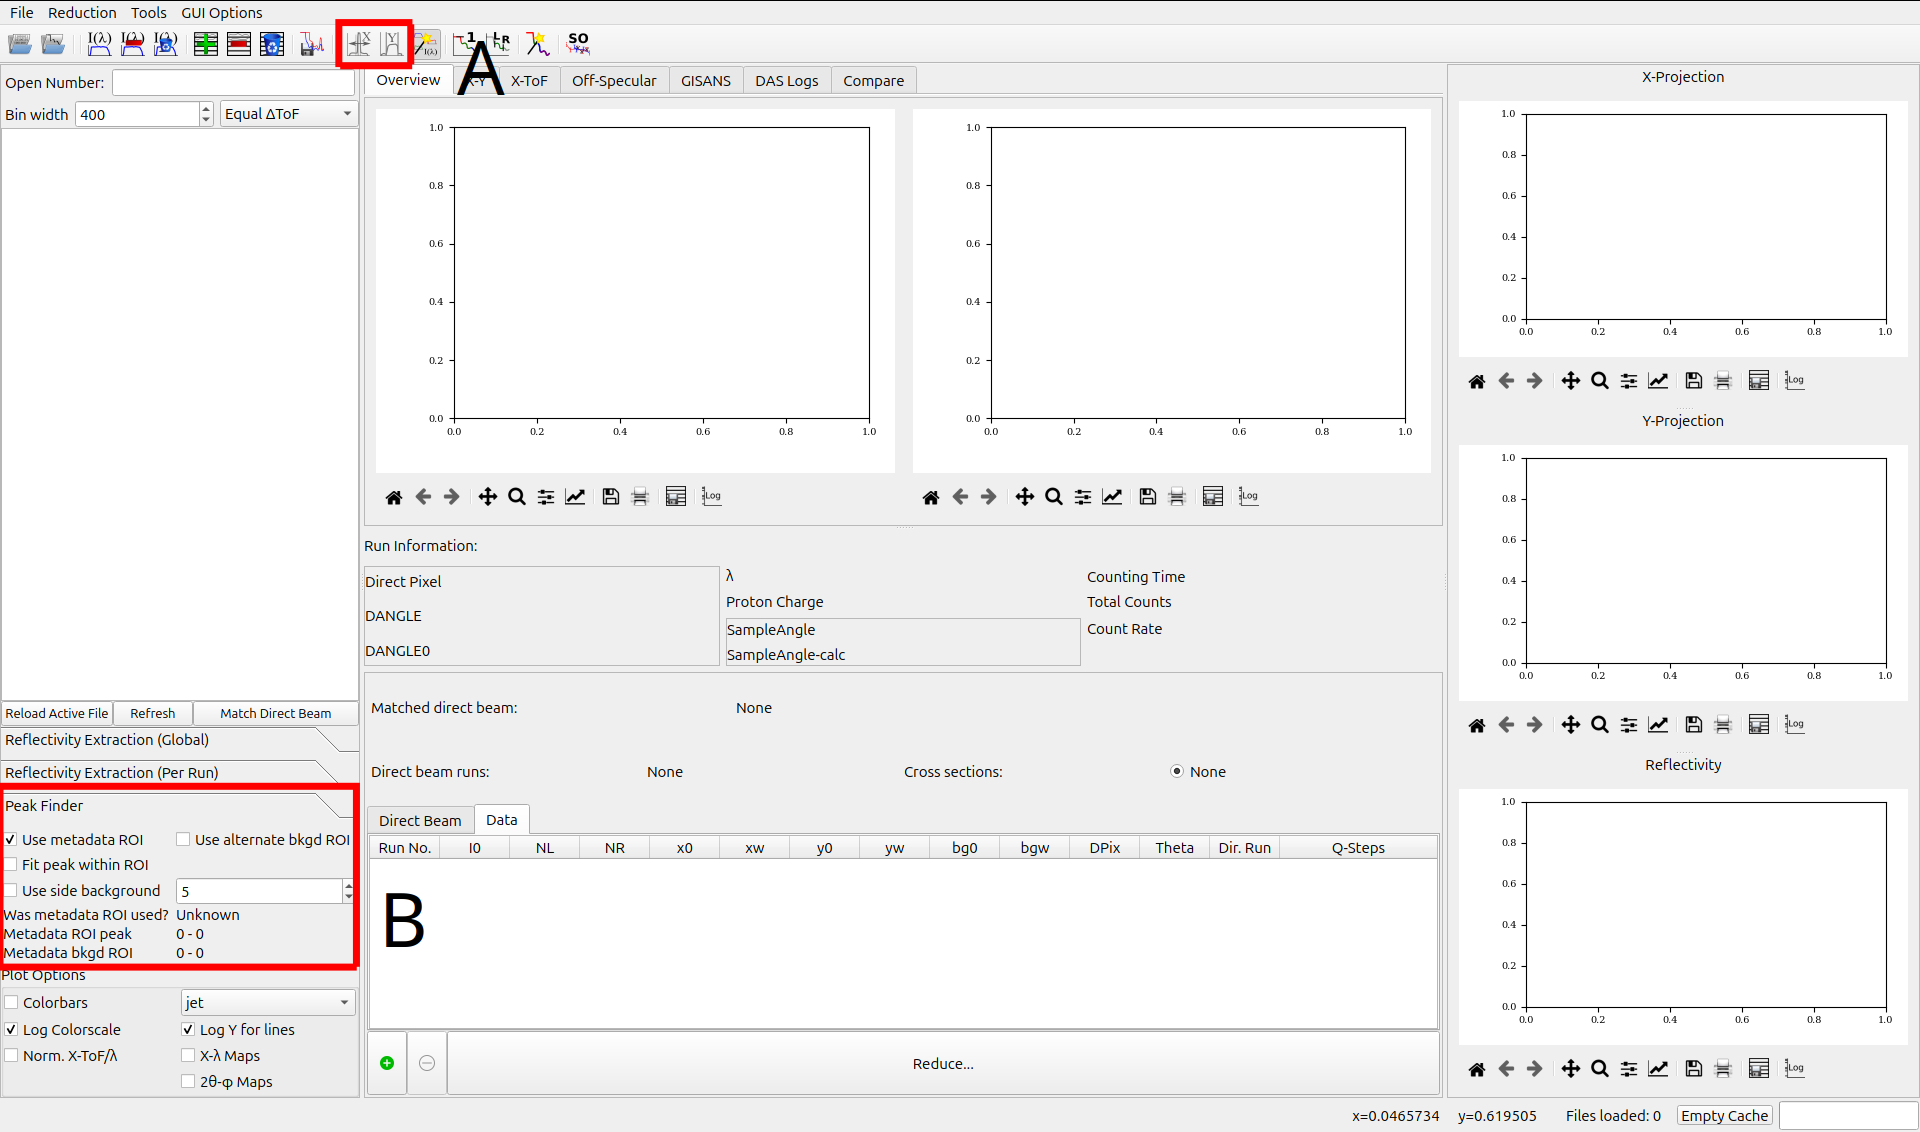
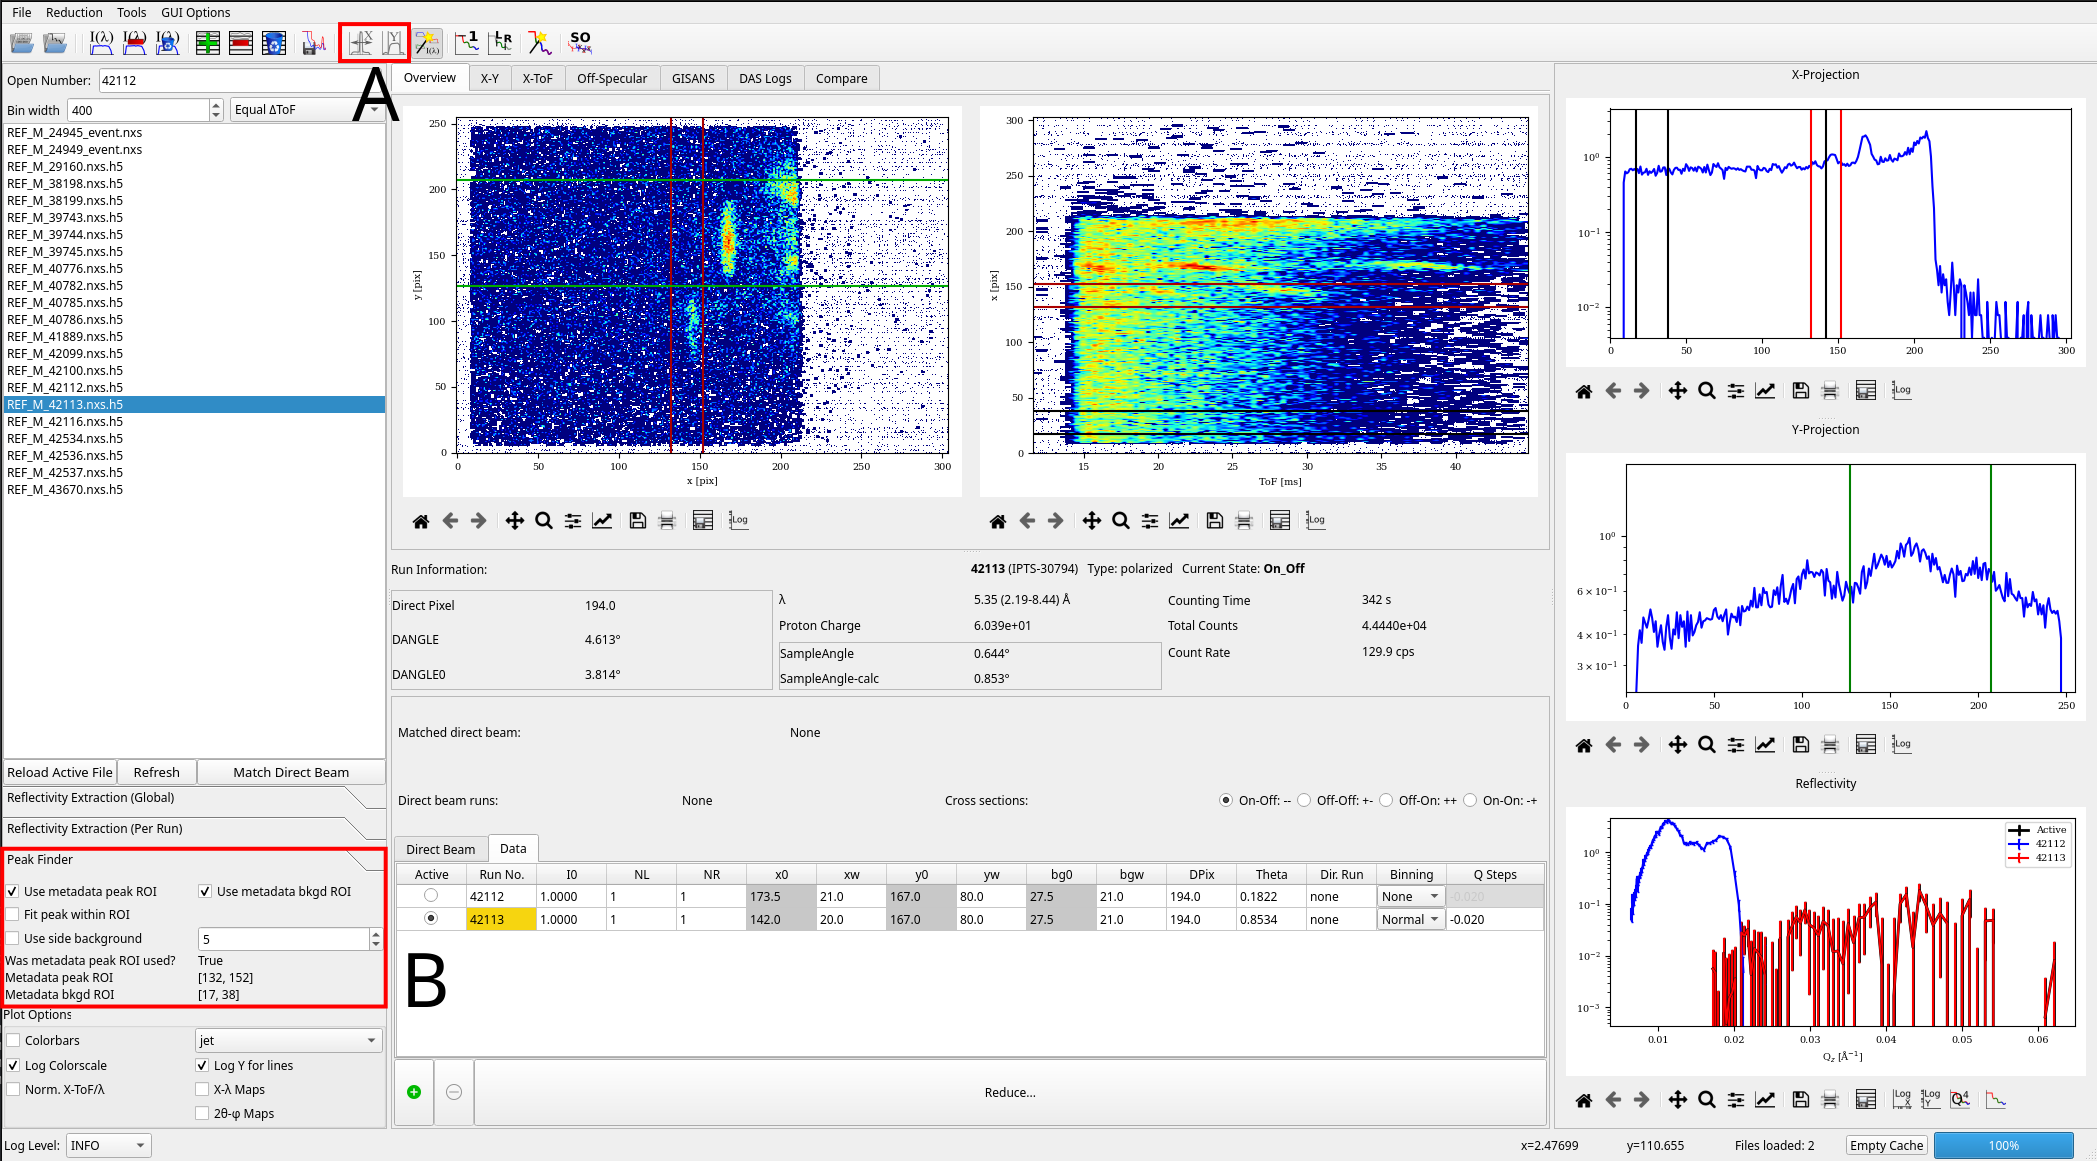
update documentation

diff --git a/docs/user/reduced_data.rst b/docs/user/reduced_data.rst
@@ -23,63 +23,9 @@ The output file consists of several parts:
 Example
 -------
 
-.. code-block::
-
-    # Datafile created by QuickNXS 4.5.0
-    # Datafile created using mr_reduction 2.2.0
-    # Datafile created using Mantid 6.12.0
-    # Date: 2025-07-16 09:17:38
-    # Type: Specular
-    # Input file indices: 42112,42113
-    # Extracted states: +-
-    #
-    # [Direct Beam Runs]
-    #  DB_ID  P0  PN  bck_position  bck_roi  bck_width  cut_first_n_points  cut_last_n_points  direct_angle_offset_overwrite direct_beam  do_final_rebin_run  dpix  final_rebin_step_run  low_res_position low_res_roi  low_res_width  match_direct_beam metadata_roi_bck metadata_roi_peak number  peak_position   peak_roi  peak_width  scaling_error  scaling_factor  set_direct_angle_offset  set_direct_pixel  subtract_background  tof_bin_type  tof_bins                                tof_range  tth  use_dangle                                           File
-    #      1   0   0          30.0 [20, 40]       20.0                   1                  1                            0.0        None               False 194.0                 -0.01             167.0  [127, 207]           80.0               True           [0, 0]        [225, 246]  42099          235.5 [225, 246]        21.0            0.0             1.0                    False             False                 True             0       400 [11413.560217325685, 45388.809236341694]    0       False /SNS/REF_M/IPTS-30794/nexus/REF_M_42099.nxs.h5
-    #
-    # [Data Runs]
-    #  DB_ID  bck_position  bck_roi  bck_width  cut_first_n_points  cut_last_n_points  direct_angle_offset_overwrite  direct_beam  do_final_rebin_run  dpix   fan  final_rebin_step_run  low_res_position low_res_roi  low_res_width  match_direct_beam metadata_roi_bck metadata_roi_peak number  peak_position   peak_roi  peak_width  scaling_error  scaling_factor  set_direct_angle_offset  set_direct_pixel  subtract_background  tof_bin_type  tof_bins                                tof_range      tth  use_dangle                                           File
-    #      0          30.0 [20, 40]       20.0                   1                  1                            0.0          NaN               False 194.0 False                 -0.01             167.0  [127, 207]           80.0               True           [0, 0]        [163, 184]  42112          173.5 [163, 184]        21.0            0.0             1.0                    False             False                 True             0       400 [11413.560217325685, 45388.809236341694] 0.137407       False /SNS/REF_M/IPTS-30794/nexus/REF_M_42112.nxs.h5
-    #      1          30.0 [20, 40]       20.0                   1                  1                            0.0      42099.0               False 194.0 False                 -0.01             167.0  [127, 207]           80.0               True           [0, 0]        [132, 152]  42113          142.0 [132, 152]        20.0            0.0             1.0                    False             False                 True             0       400 [11413.560217325685, 45388.809236341694] 0.379784       False /SNS/REF_M/IPTS-30794/nexus/REF_M_42113.nxs.h5
-    #
-    # [Peak 1 Runs]
-    #  DB_ID  bck_position  bck_roi  bck_width  cut_first_n_points  cut_last_n_points  direct_angle_offset_overwrite  direct_beam  do_final_rebin_run  dpix   fan  final_rebin_step_run  low_res_position low_res_roi  low_res_width  match_direct_beam metadata_roi_bck metadata_roi_peak number  peak_position   peak_roi  peak_width  scaling_error  scaling_factor  set_direct_angle_offset  set_direct_pixel  subtract_background  tof_bin_type  tof_bins                                tof_range      tth  use_dangle                                           File
-    #      0          30.0 [20, 40]       20.0                   1                  1                            0.0          NaN               False 194.0 False                 -0.01             167.0  [127, 207]           80.0               True           [0, 0]        [163, 184]  42112          173.5 [163, 184]        21.0            0.0             1.0                    False             False                 True             0       400 [11413.560217325685, 45388.809236341694] 0.137407       False /SNS/REF_M/IPTS-30794/nexus/REF_M_42112.nxs.h5
-    #      1          30.0 [20, 40]       20.0                   1                  1                            0.0      42099.0               False 194.0 False                 -0.01             167.0  [127, 207]           80.0               True           [0, 0]        [132, 152]  42113          142.0 [132, 152]        20.0            0.0             1.0                    False             False                 True             0       400 [11413.560217325685, 45388.809236341694] 0.379784       False /SNS/REF_M/IPTS-30794/nexus/REF_M_42113.nxs.h5
-    #
-    # [Global Options]
-    # name                        value
-    # sample_size                  10.0
-    # use_constant_q              False
-    # do_final_rebin_global        True
-    # final_rebin_step_global     -0.01
-    # normalize_to_unity           True
-    # total_reflectivity_q_cutoff  0.01
-    # global_stitching            False
-    # polynomial_stitching        False
-    # polynomial_stitching_degree     3
-    # polynomial_stitching_points     3
-    # apply_deadtime              False
-    # paralyzable_deadtime         True
-    # deadtime_value                4.2
-    # deadtime_tof_step             100
-    # lock_direct_beam_y          False
-    # use_roi                      True
-    # update_peak_range           False
-    # use_peak_finder             False
-    # use_low_res_finder          False
-    # use_roi_bck                 False
-    # use_tight_bck               False
-    # bck_offset                      5
-    # force_bck_roi               False
-    #
-    # [Data]
-    #     Qz [1/A]	    R [a.u.]	   dR [a.u.]	   dQz [1/A]	 theta [rad]
-    6.460453e-03      	3.887723e-02      	1.326615e-02      	5.000970e-04      	4.322784e-03
-    6.525057e-03      	4.349224e-02      	1.335389e-02      	5.051001e-04      	4.322784e-03
-    6.590308e-03      	6.469506e-02      	1.598737e-02      	5.101532e-04      	4.322784e-03
-    6.656211e-03      	7.656998e-02      	1.793673e-02      	5.152570e-04      	4.322784e-03
-    ...
+.. include:: ./example_reduced_data.dat
+    :literal:
+    :end-line: 50
 
 
 Section Details

diff --git a/docs/user/reduction.rst b/docs/user/reduction.rst
@@ -3,16 +3,26 @@
 Reduction
 =========
 
+Reduction Options
+-----------------
+
+After clicking the **Reduce** button in the main Reflectometry GUI, the Reduction Options dialog window
+appears. This window allows you to configure various settings for the data reduction process.
+See the image below for reference.
+
+.. figure::
+   ../images/reduction_options.png
+   :alt: Reduction Options
+
 Reduction Output
 ----------------
 
-Output Files
-++++++++++++
-
-After successful reduction using the default settings, the following files are generated in the
-output directory. Below is a list for run peaks 42535_1 and 42536_1. The particular cross-sections
-will depend on the instrument settings, which for these runs turn out to be "Off_Off" and "On_Off".
+After successful reduction using the default settings, a number of ``.dat`` and ``.ort`` files are generated in the
+output directory, the names and contents depending on which items are selected in the Reduction Options dialog window.
 For detailed information on the format of the output files, see the page on :ref:`reduced_data`.
+
+For example, below is a list for run peaks 42535_1 and 42536_1. The particular cross-sections
+will depend on the instrument settings, which for these runs turn out to be "Off_Off" and "On_Off".
 
 - **REF_M_42535+42536_peak1_Specular_Off_Off.dat**: combined reflectivity curve for the "Off_Off" cross-section.
 - **REF_M_42535+42536_peak1_Specular_On_Off.dat**: combined reflectivity curve for the "On_Off" cross-section.
